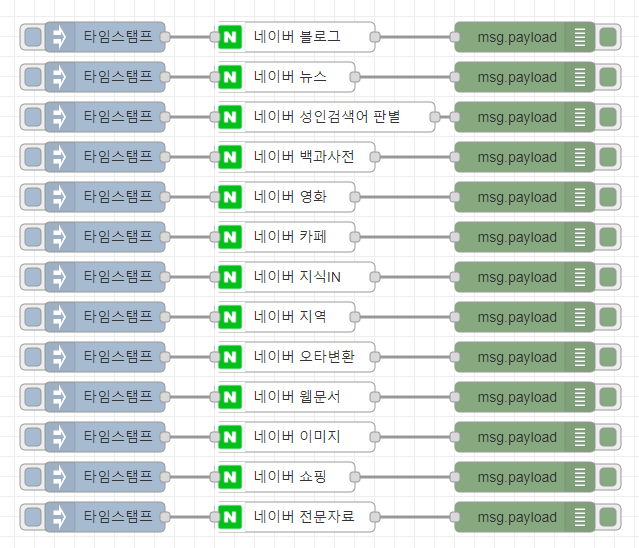
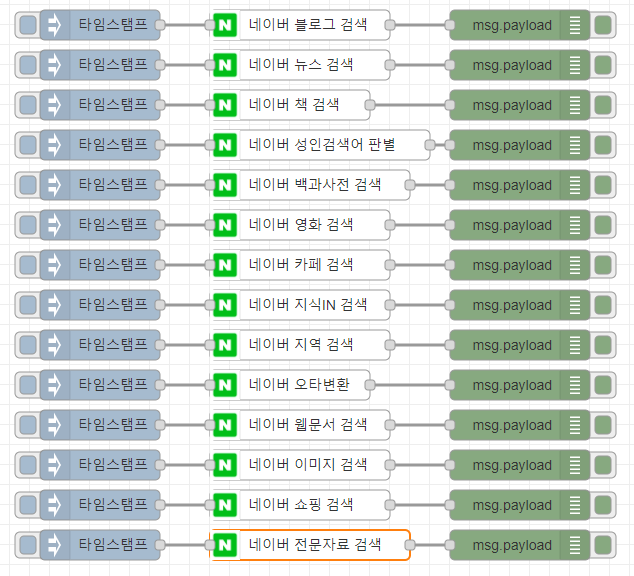
add sample

diff --git a/node.js b/node.js
@@ -23,7 +23,7 @@ module.exports = function (RED) {
             }
             if(!node.url){
                 if(node.api){
-                    node.url = 'https://openapi.naver.com/v1/search/'+ node.api +'.json';
+                    node.url = 'https://openapi.naver.com/v1/search/'+ node.api.toLowerCase() +'.json';
                 }else{
                     node.url = 'https://openapi.naver.com/v1/search/blog.json';
                 }

diff --git a/README.md b/README.md
@@ -21,8 +21,8 @@ command in your Node-RED user directory, typically `~/.node-red`
 
 
 msg.params = {};
-msg.params.api = 'blog'; //# API : blog,news,adult,encyc,movie,cafearticle,kin,local,errata,webkr,image,shop,doc 
-msg.params.query = '테스트'; //#검색어
+msg.params.api = 'blog'; //# API : blog,news,book,adult,encyc,movie,cafearticle,kin,local,errata,webkr,image,shop,doc 
+msg.params.query = '테슬라'; //#검색어
 msg.params.display = "10" // #출력 검색 수
 msg.params.sort = 'date' //#결과값의 정렬기준 시간순 date, 관련도 순 sim
 msg.params.start = "1" //# 출력 위치
